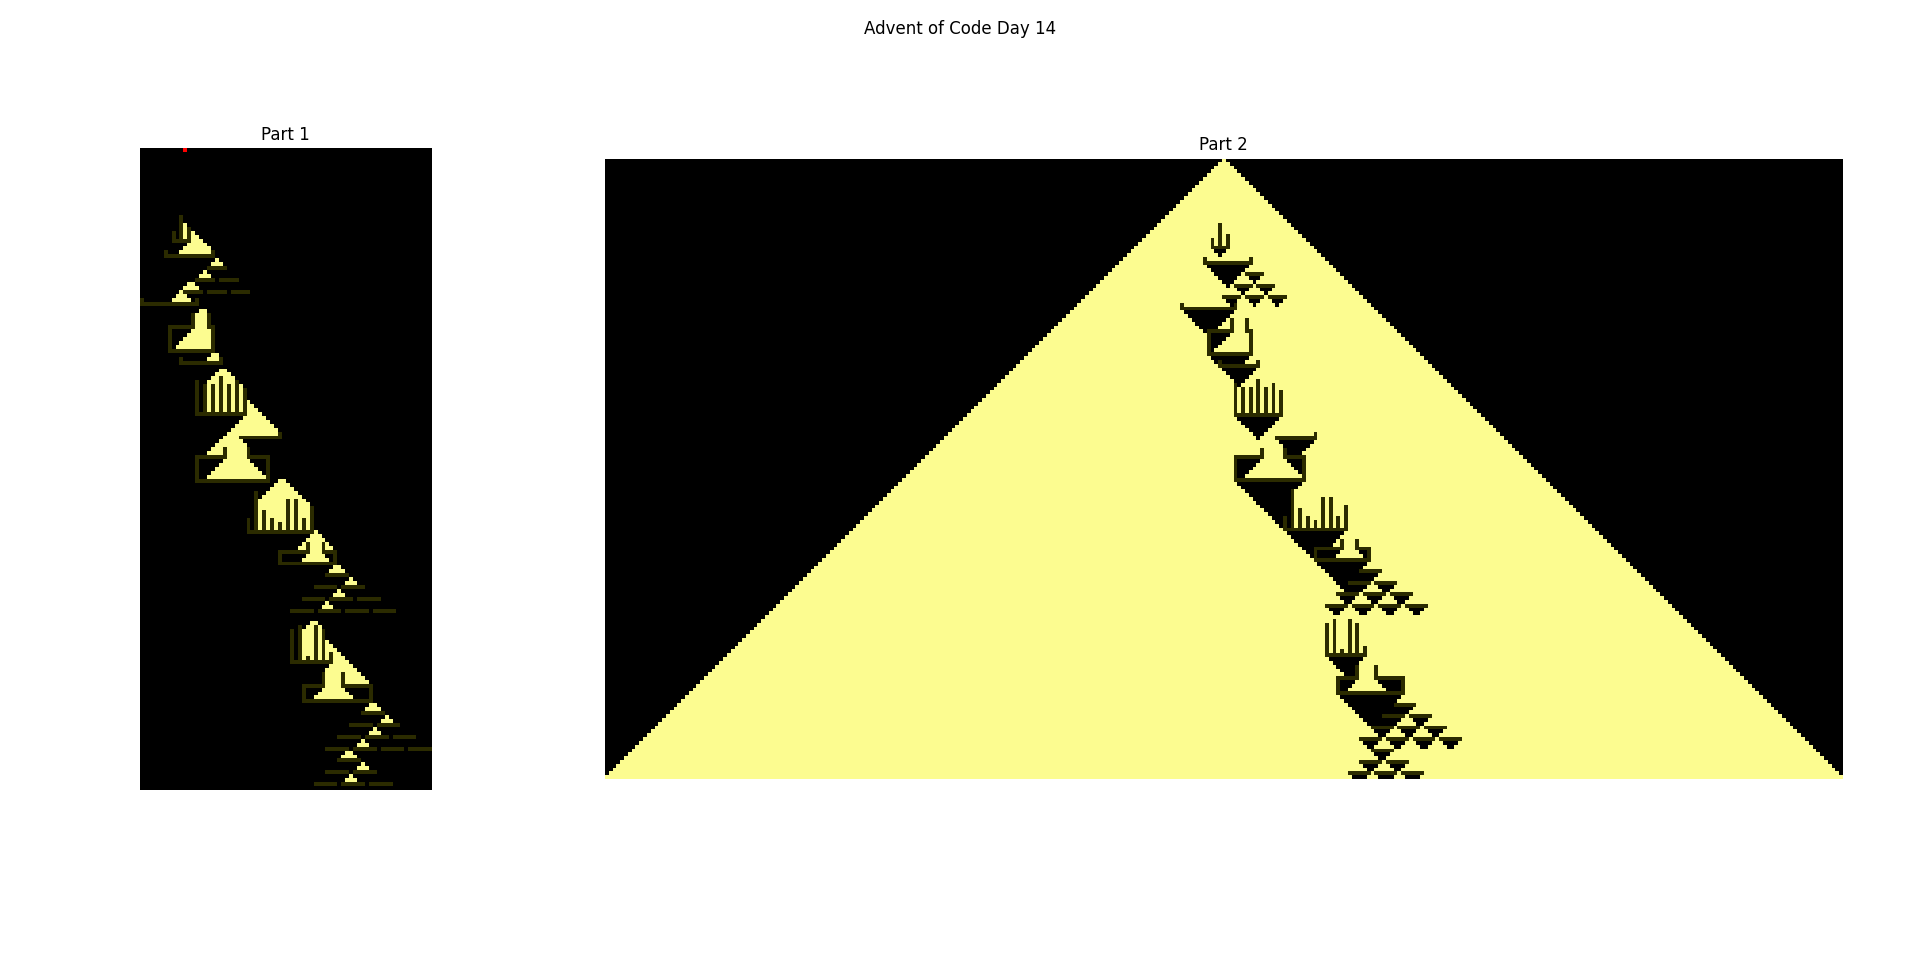
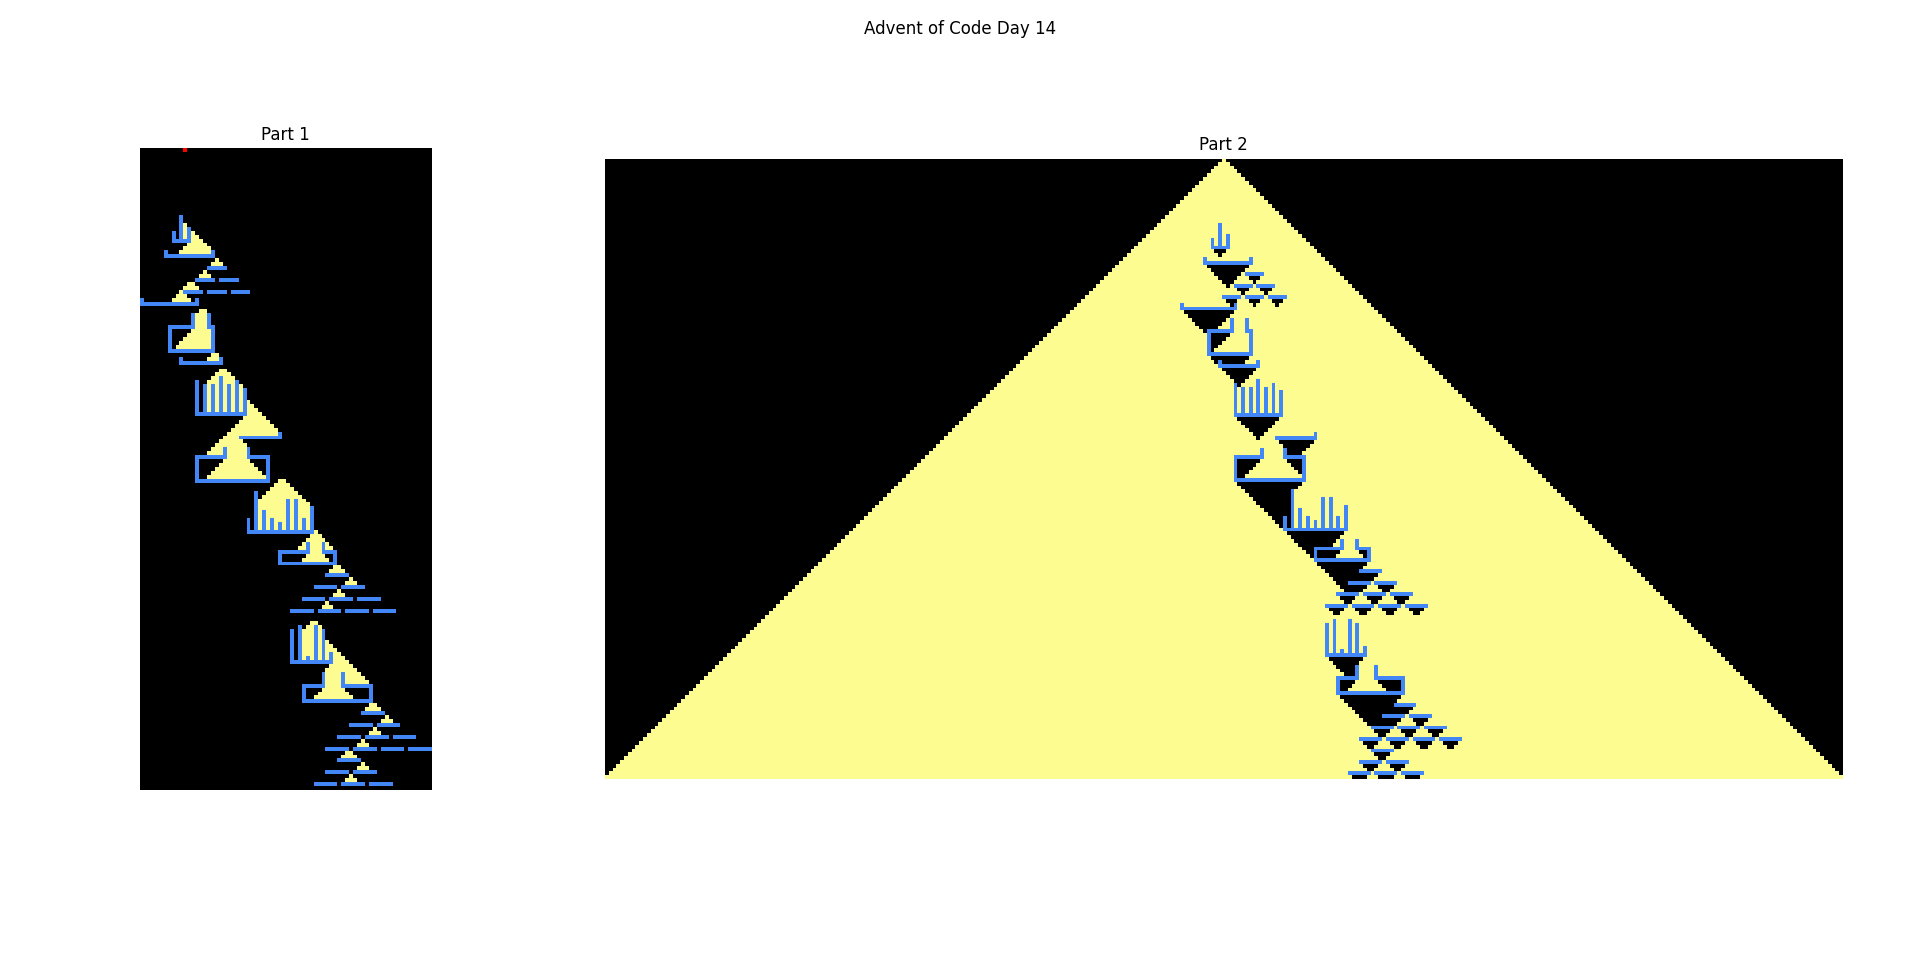
Day 14 - Make rocks more visible

diff --git a/2022/day14.py b/2022/day14.py
@@ -113,7 +113,7 @@ class Solution(aoc.AbstractSolution):
             cave_image1.append([])
             for x in range(self.x_min, self.x_max + 1):
                 if (x, y) in self.map:
-                    cave_image1[-1].append([43, 43, 0] if self.map[x, y] == self.ROCK_STR else ([255, 0, 0] if self.map[x, y] == "o" else [252, 252, 144]))
+                    cave_image1[-1].append([66, 135, 245] if self.map[x, y] == self.ROCK_STR else ([255, 0, 0] if self.map[x, y] == "o" else [252, 252, 144]))
                 else:
                     cave_image1[-1].append([0, 0, 0])
 
@@ -125,7 +125,7 @@ class Solution(aoc.AbstractSolution):
             cave_image2.append([])
             for x in range(self.x_min, self.x_max + 1):
                 if (x, y) in self.map:
-                    cave_image2[-1].append([43, 43, 0] if self.map[x, y] == self.ROCK_STR else [252, 252, 144])
+                    cave_image2[-1].append([66, 135, 245] if self.map[x, y] == self.ROCK_STR else [252, 252, 144])
                 else:
                     cave_image2[-1].append([0, 0, 0])
 
